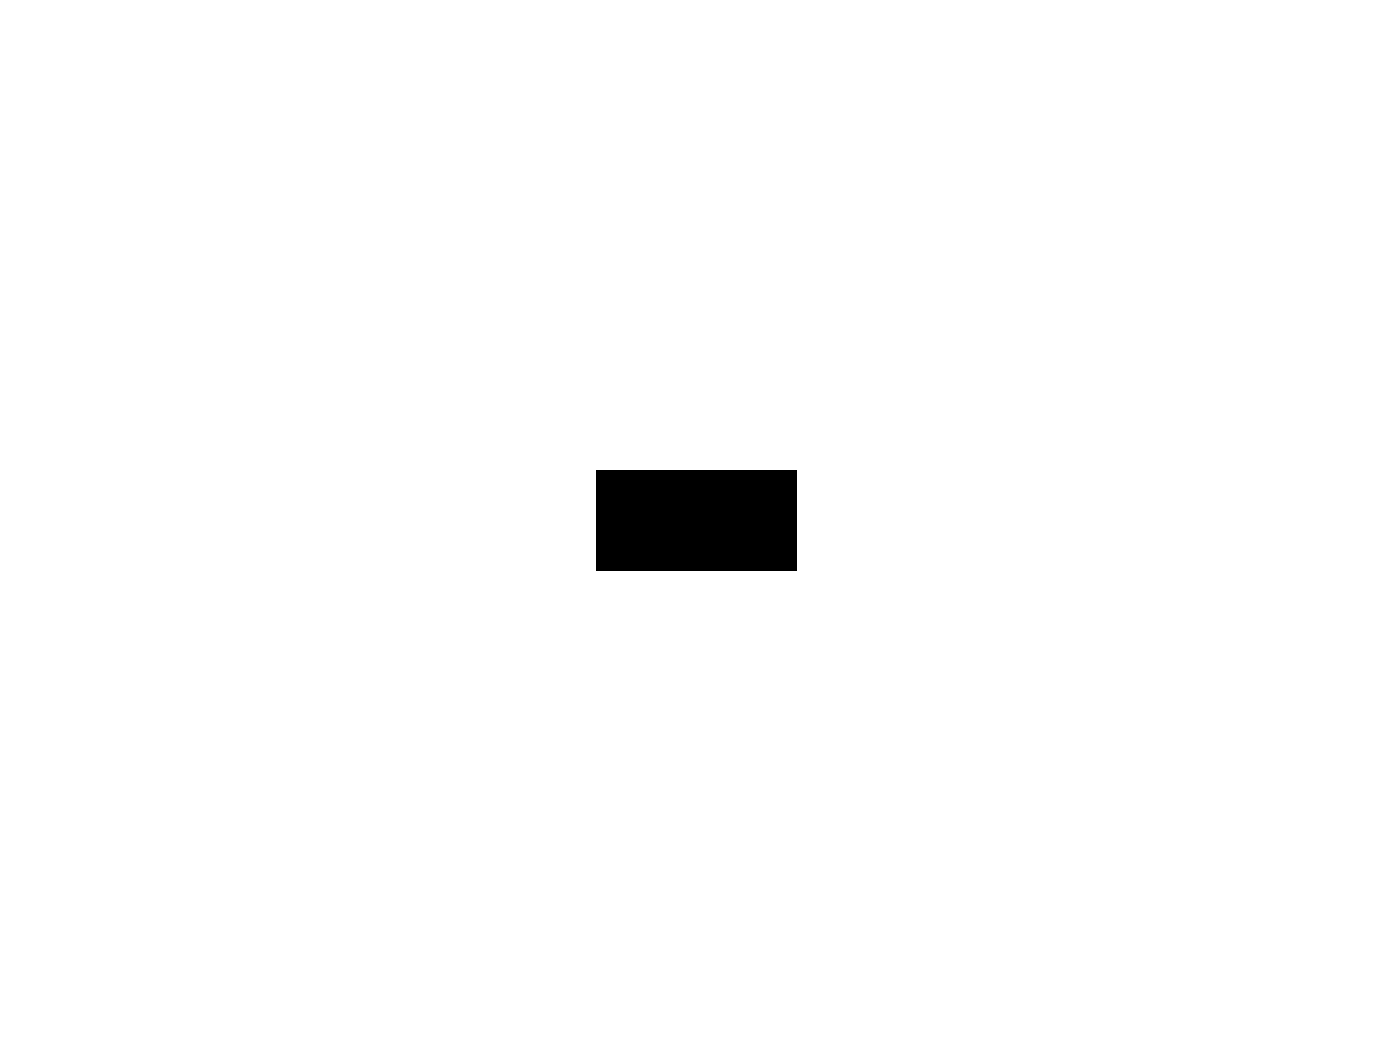
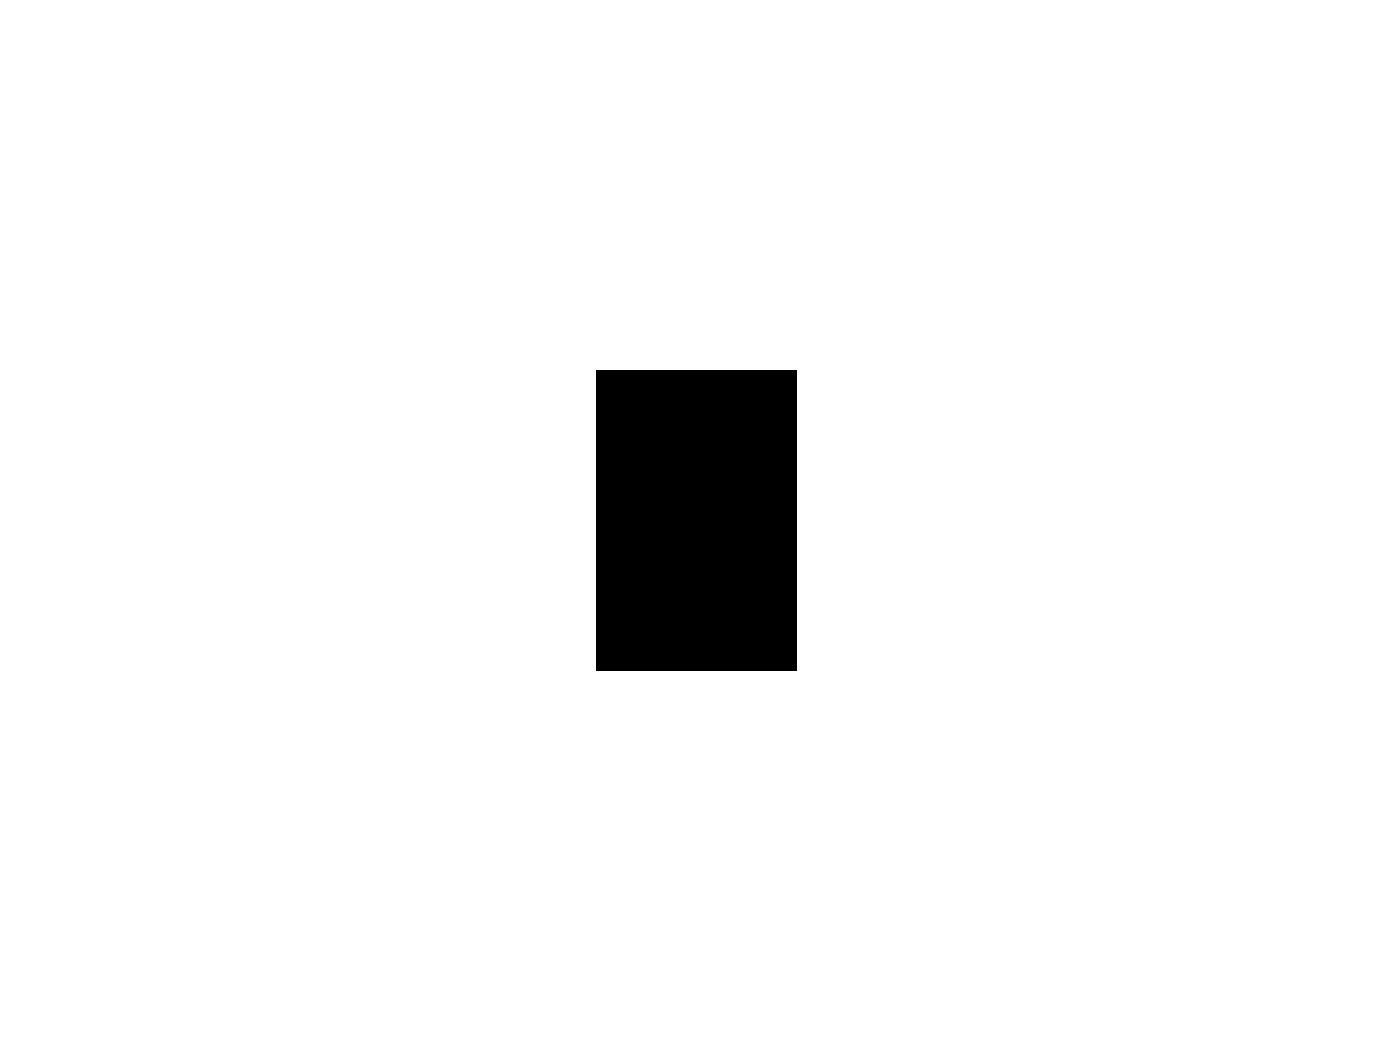
update

Changed region(s): [[0.4016, 0.5231, 0.5869, 0.6462], [0.4016, 0.3385, 0.5869, 0.4615]]

diff --git a/generate_image.py b/generate_image.py
@@ -33,7 +33,7 @@ for size in size_list:
   img = np.ones((height,width, 3),np.uint8)*255
   cv2.circle(img,
            center=(int(width/2), int(height/2)),
-           radius=50,
+           radius=150,
            color=(0, 0, 0),
            thickness=-1,
            lineType=cv2.LINE_4,
@@ -50,7 +50,7 @@ for size in size_list:
   center_x = int(width/2)
   center_y = int(height/2)
   rect_w_half = 100
-  rect_h_half = 50
+  rect_h_half = 150
   img = np.ones((height, width, 3),np.uint8)*255
   cv2.rectangle(img,
               pt1=(center_x - rect_w_half, center_y - rect_h_half),
